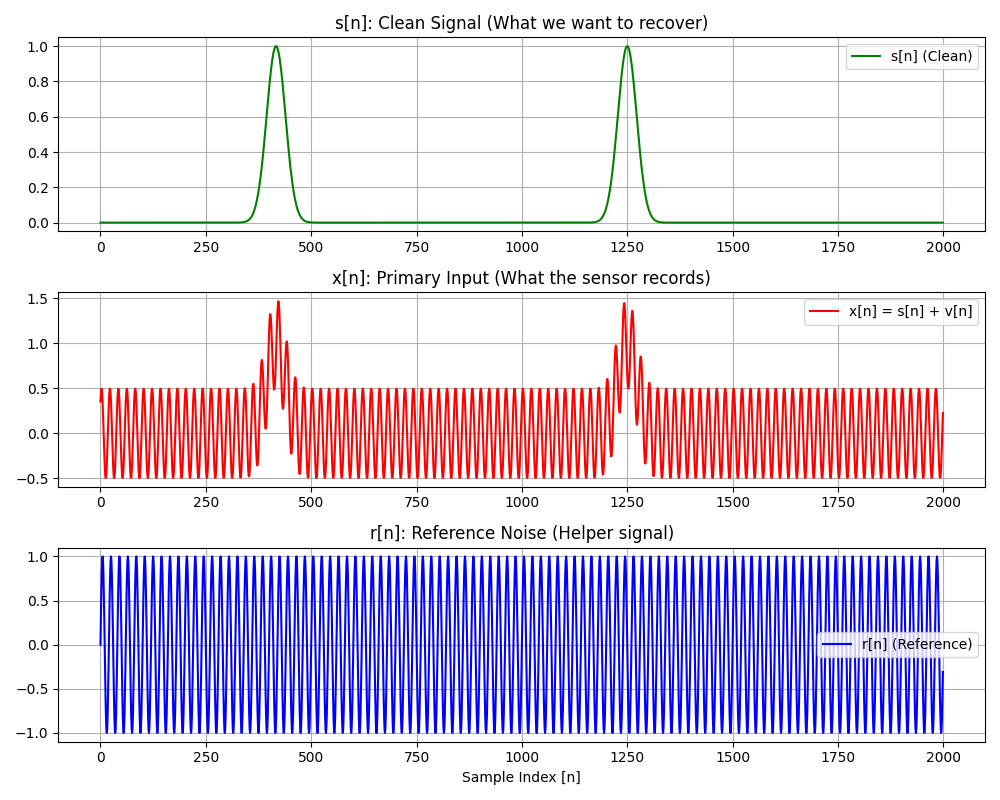
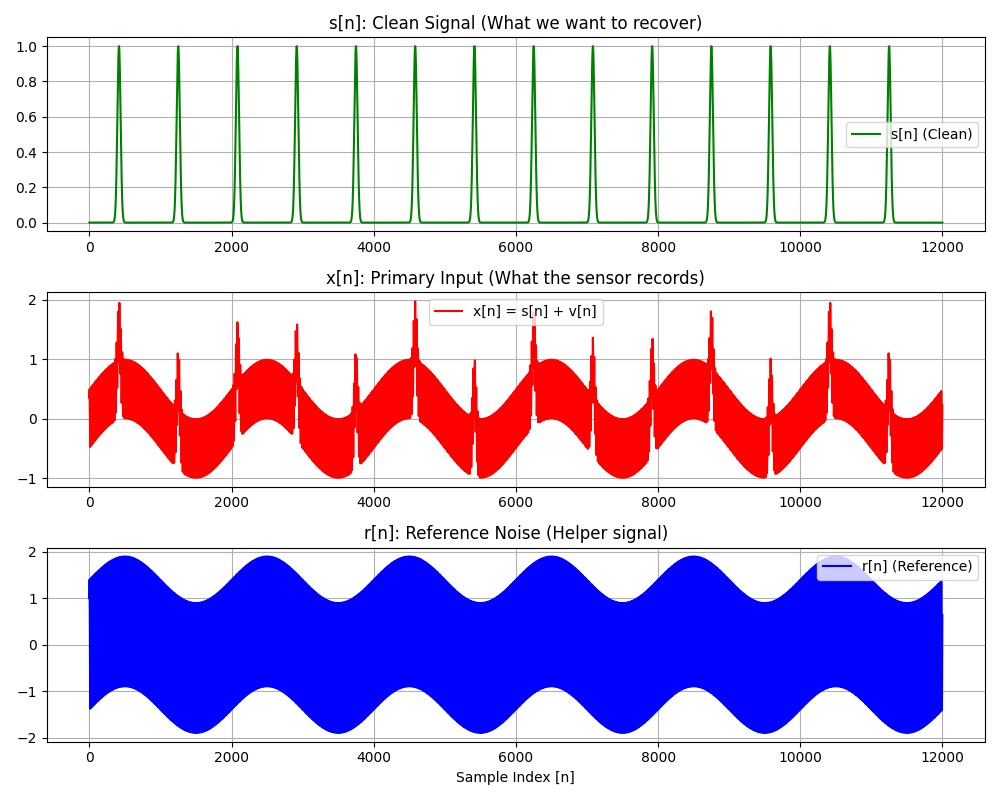
Added drift into singals, improved filter stability

diff --git a/src/lms_algorithm.py b/src/lms_algorithm.py
@@ -19,22 +19,53 @@ class LMSFilter:
         y = np.zeros(N) # the filter's prediction of noise
         e = np.zeros(N) # the error (cleaned signal, only in this specific appliacation)
         
+        eps = 1e-8 # small constant to avoid division by zero
         for n in range(N):
-            # update the buffer (shift old samples, add new one)
-            self.buffer = np.roll(self.buffer, 1) # np.roll -> move all buffer one position to the right
-            self.buffer[0] = reference[n] #empty place repace with the reference signal sample
-            
-            # predict the noise (y = weights * buffer)
-            y[n] = np.dot(self.w, self.buffer) #convolution, but only in one point, sum w*buffer[0..buf_size]
-            
-            # calculate the Error/Clean Signal (e = x - y)
-            e[n] = primary[n] - y[n]
-            
-            # update weights (the learning step)
-            # w = w + 2 * mu * error * reference_sample
-            self.w = self.w + 2 * self.mu * e[n] * self.buffer
-            
+            self.buffer = np.roll(self.buffer, 1) #shift buffer to the right by one position
+            self.buffer[0] = reference[n] 
+            y[n] = np.dot(self.w, self.buffer) # convolution in one point
+            e[n] = primary[n] - y[n] 
+            norm = np.dot(self.buffer, self.buffer) + eps
+            mu_n = self.mu / norm            # normalized step
+            self.w += mu_n * e[n] * self.buffer
+
+                
         return e, y
+
+def calculate_snr(clean, processed):
+    # noise is the difference between our result and the "perfect" signal
+    noise_residual = clean - processed
+    
+    # calculate power ratio
+    signal_power = np.mean(clean**2)
+    noise_power = np.mean(noise_residual**2)
+    
+    # result in dB
+    return 10 * np.log10(signal_power / noise_power)
+
+
+def plot_spectral_analysis(x_noisy, e_out, fs, output_dir):
+    plt.figure(figsize=(12, 6))
+    
+    for signal, label, color in zip([x_noisy, e_out], ['Noisy Input', 'LMS Filtered'], ['r', 'b']):
+        # Compute Power Spectral Density
+        fft_vals = np.fft.rfft(signal)
+        psd = np.abs(fft_vals)**2
+        freqs = np.fft.rfftfreq(len(signal), 1/fs)
+        
+        plt.semilogy(freqs, psd, color, label=label, alpha=0.7)
+
+    plt.title("Power Spectral Density (Frequency Content)")
+    plt.xlabel("Frequency (Hz)")
+    plt.ylabel("Power")
+    plt.xlim(0, 100)  # Zoom in on the relevant 0-100Hz range
+    plt.grid(True, which='both', linestyle='--', alpha=0.5)
+    plt.legend()
+    save_path = os.path.join(output_dir, 'fft_results.png')
+    plt.savefig(save_path)
+    print(f"Filter complete! Results saved to: {save_path}")
+
+
 
 if __name__ == "__main__":
     # paths
@@ -42,17 +73,48 @@ if __name__ == "__main__":
     project_root = os.path.dirname(script_dir)
     output_dir = os.path.join(project_root, 'results', 'plots')
     
-    # generating data
     FS = 1000
-    T_total = 2.0
+    T_total = 12.0
     n_idx, s_clean, x_noisy, r_ref = generate_data(FS, T_total)
     
-    # --- 3. FILTERING ---
-    # mu: Learning rate (Try 0.01)
-    # num_taps: Filter memory (Try 32)
-    lms = LMSFilter(mu=0.02, num_taps=32)
+    # 1. Normalize based on the Noisy signal
+    norm_factor = np.max(np.abs(x_noisy))
+    x_noisy /= norm_factor
+    s_clean /= norm_factor
+    r_ref /= np.max(np.abs(r_ref)) # Reference normalized to its own peak
+
+    # 2. Run the filter with slightly higher mu for faster learning
+    lms = LMSFilter(mu=0.01, num_taps=128) # Increased taps for drift
     cleaned_signal, noise_estimate = lms.process(x_noisy, r_ref)
     
+    # 3. SNR Calculation (Fair Comparison)
+    # We use the same 'start_index' for BEFORE and AFTER 
+    # so we aren't comparing a whole signal to a small piece.
+    start_index = int(len(s_clean) * 0.3)
+    
+    snr_before = calculate_snr(s_clean[start_index:], x_noisy[start_index:])
+    snr_after = calculate_snr(s_clean[start_index:], cleaned_signal[start_index:])
+   
+    print(f"SNR before filtering: {snr_before:.2f} dB")
+    print(f"SNR after filtering (Stabilized): {snr_after:.2f} dB")
+
+
+
+
+
+
+
+
+
+
+
+
+
+
+    plot_spectral_analysis(x_noisy, cleaned_signal, FS, output_dir)
+
+
+
     # saving plots into file
     plt.figure(figsize=(12, 8))
     

diff --git a/src/generate_signals.py b/src/generate_signals.py
@@ -67,12 +67,27 @@ def generate_data(fs, T):
     # x[n] - The Primary Input
     # This is what the sensor actually records: Signal + Noise
     x = s + v
-    
+
+    # adding breathing drift
+    drift = 0.5 * np.sin(2 * np.pi * 0.5 * t)
+    x = x + drift
+
+    # in real word wall socket do not contain drift,
+    # but it is needed for the filter to work properly 
+
+
+
     # 5. Generate r[n] - The Reference Signal
     # This simulates measuring the voltage directly from the wall outlet.
     # It is correlated with v[n], but has different phase/amplitude.
-    r = np.sin(2 * np.pi * f_line * t)
+    # Instead of just r = noise + drift
+    # We give the filter a "clue" about the phase
+    r = np.sin(2 * np.pi * f_line * t ) + drift
     # we deliberetly give it no phase to make filter do some work
+    
+   
+                
+
 
 
 
@@ -101,7 +116,7 @@ if __name__ == "__main__":
 
     # Simulation Parameters
     FS = 1000  # Hz
-    T_total = 2.0  # Seconds
+    T_total = 12.0  # Seconds
     
     # Generate the data
     n_idx, s_clean, x_noisy, r_ref = generate_data(FS, T_total)

diff --git a/README.md b/README.md
@@ -28,4 +28,5 @@ The filter successfully converges within the first 200 samples, significantly re
 ## 🛠 Installation & Usage
 1. Clone the repo: `git clone https://github.com/YOUR_USERNAME/adaptive-ecg-denoising-lms.git`
 2. Install dependencies: `pip install numpy matplotlib`
+4. Run command: source dsp_env/bin/activate
 3. Run the simulation: `python src/lms_algorithm.py`
